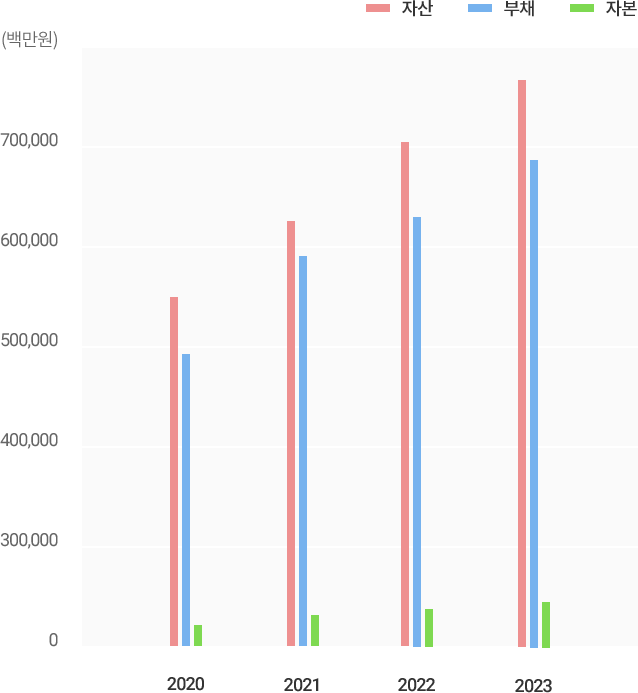
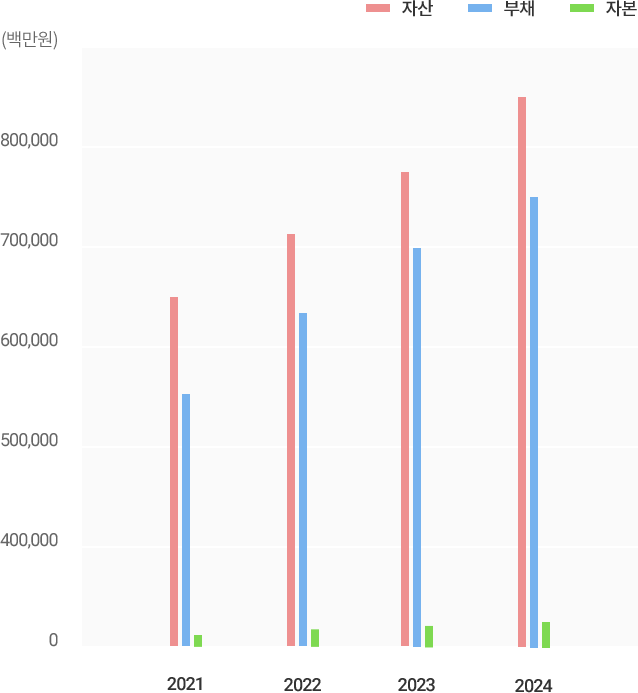
경영현황 수정

diff --git a/mobile/yedaham_renew/event/event250414.html b/mobile/yedaham_renew/event/event250414.html
@@ -1,0 +1,168 @@
+<!DOCTYPE html>
+<html lang="ko">
+
+<head>
+    <title>예다함</title>
+    <meta charset="UTF-8">
+    <meta name="viewport"
+        content="width=device-width, initial-scale=1.0, maximum-scale=1.0, minimum-scale=1.0, user-scalable=no" />
+    <meta property="og:type" content="website">
+    <meta property="og:title" content="The-K 예다함 상조">
+    <meta property="og:description" content="한국교직원공제회가 100% 출자, 설립한 The-K예다함상조">
+    <meta property="og:image" content="https://www.yedaham.com/images/common/logo_withCCM.png">
+    <meta property="og:url" content="https://www.yedaham.com">
+    <link rel="stylesheet" href="../css/mobile.css">
+    <link rel="stylesheet" href="../css/swiper-bundle.css">
+
+</head>
+
+<body class="foot-space">
+    <header class="header">
+        <a href="javascript:history.go(-1);" class="page-back">뒤로 가기</a>
+        <h2>이벤트</h2>
+        <div>
+            <a href="../main/main.html" style="height:48px;display:inline-block;padding-top:13px;"><img
+                    src="../images/common/home.png" style="width:18px;" alt="home"></a>
+            <a href="../main/main.html" style="width:48px;height:48px;display:inline-block;padding-top:15px;"><img
+                    src="../images/common/ham.png" style="width:20px;" alt="The-K 예다함 상조"></a>
+        </div>
+    </header>
+
+    <div class="mainContent event-wrap">
+
+        <div class="event-vis"><img src="../images/event/event_top_250414.jpg" alt=""></div>
+        <div class="move-content">
+            <section class="box event-view-box">
+                <article class="event-view-content">
+                    <h5 class="view-box-title">기간</h5>
+                    <p class="date"><span>2025. 04. 14 ~ 11. 30</span></p>
+                </article>
+                <article class="event-view-content">
+                    <h5 class="view-box-title">대상</h5>
+                    <ul class="mt-15">
+                        <li>예다함 <span class="f700">상조 계약을 유지 중인 회원</span></li>
+                    </ul>
+                </article>
+                <article class="event-view-content">
+                    <h5 class="view-box-title">참여방법</h5>
+                    <ul class="mt-15">
+                        <li>홈페이지(PC, 모바일), 고객센터를 통해 개인정보 변경 시 참여 완료 </li>
+                        <li style="font-size:11px;">※ 변경항목 : 휴대전화, 주소, 이메일 주소, 결제방법 중 1개 이상</li>
+                        <li style="font-size:11px;">※ 이메일, 주소, 연락처 모두 업데이트 시 당첨 확률 UP! UP!</li>
+                        <li style="font-size:11px;">※ 연락처의 경우 <a href="tel:1566-6644">고객센터(1566-6644)</a>로 연락하여 변경 요청</li>
+                        <li style="font-size:11px;">※ 이벤트 기간 동안 개인정보를 다회 변경하여도 이벤트는 1회만 참여가능</li>
+                    </ul>
+                </article>
+                <article class="event-view-content">
+                    <h5 class="view-box-title">경품</h5>
+                    <div class="flex" style=" justify-content: space-between">
+
+                        <ul class="mt-20">
+                            <li>스타벅스 아메리카노(Tall)<br />
+                                기프티콘 1매<br />
+                                (매월 100명 추첨)
+                            </li>
+                        </ul>
+                        <div style="margin-top: -25px;">
+                            <img src="../images/event/event_product_250305_01.jpg" style="width:101px" alt="">
+                        </div>
+                    </div>
+                </article>
+                <article class="event-view-content">
+                    <h5 class="view-box-title">당첨자 발표</h5>
+                    <ul class="mt-15">
+                        <li>당첨자 개별 안내 및 발송 예정</li>
+                        <li style="font-size:11px;">※ 이벤트 참여 후 익월 셋째주에 기프티콘 발송 예정<br />(당사 사정에 따라 발송일정은 변경될 수 있음)</li>
+                    </ul>
+
+                </article>
+
+            </section>
+            <section class="box mt-20">
+                <h5 class="titB">유의사항</h5>
+                <article class="bg-exp mt-10">
+                    기프티콘이 정상 발송된 이후에는 재발송되지 않습니다. 
+                </article>
+
+                <ul class="number-list mt-20">
+                    <li>본 이벤트 경품 변경 시에는 예고없이 변경될 수 있으며, 경품 변경 시에는 동급의 상품을 지급합니다.</li>
+                    <li>본 경품은 이벤트 발송 상품으로 유효기간 연장 및 환불 대상이 아니며, 반드시 유효기간 내에 이용해 주셔야 합니다.</li>
+                    <li>자세한 문의는 <span class="f700">예다함 고객센터</span> <a href="tel:1566-6644"><span
+                                class="f700">1566-6644</span></a>로 문의주시기 바랍니다.</li>
+                </ul>
+
+            </section>
+
+        </div><!-- class="move-content" -->
+
+
+    </div><!-- class="mainContent" -->
+    <footer id="footer">
+        <div class="sns">
+            <a href="https://www.facebook.com/yedaham.co.kr" target="_blank"><img
+                    src="../images/common/icon_facebook.png" alt="페이스북"></a>
+            <a href="https://www.youtube.com/channel/UCIc7RDIHPg6p8y9Ycxundaw/ " target="_blank"><img
+                    src="../images/common/icon_youtube.png" alt="유튜브"></a>
+            <a href="javascript:alert('카카오톡');" target="_blank"><img src="../images/common/icon_kakao_grey.png"
+                    alt="카카오톡"></a>
+        </div>
+        <div class="utList">
+            <a href="https://www.yedaham.co.kr/customer/agreement/agreement.do" target="_blank">이용약관 </a>
+            <a href="https://www.yedaham.co.kr/customer/agreement/pps.do" target="_blank">개인정보처리방침</a><br />
+            <a href="https://www.yedaham.co.kr/customer/agreement_vod/pps_vod.do " target="_blank">영상정보처리기기 운영관리지침</a>
+            <a href="https://www.yedaham.co.kr/customer/agreement/important.do " target="_blank">중요정보고시사항</a>
+        </div>
+
+        <div class="telList ">
+            <div>
+                대표전화<a href="tel:1566-6644">1566-6644</a>
+            </div>
+            <div>
+                장례접수(상황센터)<a href="tel:1566-0119">1566-0119</a>
+            </div>
+        </div>
+        <div class="yedaham-addr ">
+            서울특별시 마포구 마포대로86, 14층(도화동, 창강빌딩)<br />The-K예다함상조㈜ 대표이사 홍승표
+        </div>
+        <ul class="yedaham-number ">
+            <li>사업자등록번호 101-86-49300</li>
+            <li>통신판매업 신고번호 제2014-서울마포-0712호</li>
+            <li>전화권유판매업 신고번호 제2014-서울마포-0012호</li>
+        </ul>
+
+        <div class="brochure">
+            <div><a href="https://www.yedaham.co.kr/main.do" target="_blank">BRAND SITE</a></div>
+            <div><a href="../download/200319_yedaham_brochure.pdf">2020 BROCHURE</a></div>
+        </div>
+
+
+        <div class="selectLink-wrap">
+            <a href="javascript:void(0);" onclick="familySite();">We are The-K group</a>
+            <ul>
+                <li><a href="https://www.ktcu.or.kr/" target="_blank">The-K한국교직원공제회</a></li>
+                <li><a href="http://www.thek-hotel.co.kr/main_sh.asp?" target="_blank">The-K호텔서울</a></li>
+                <li><a href="http://www.ramadajeju.co.kr/" target="_blank">라마다 프라자 제주호텔</a></li>
+                <li><a href="http://thek-hotel.co.kr/gyeongju/main_sh.asp?" target="_blank">The-K호텔경주</a></li>
+                <li><a href="http://thek-hotel.co.kr/jirisan/main_sh.asp?" target="_blank">The-K지리산가족호텔</a></li>
+                <li><a href="http://thek-hotel.co.kr/seoraksan/main_sh.asp?" target="_blank">The-K설악산가족호텔</a></li>
+                <li><a href="https://www.thekbank.co.kr/main/main.do" target="_blank">The-K저축은행</a></li>
+                <li><a href="https://www.sophiagreen.co.kr/index.asp" target="_blank">The-K소피아그린</a></li>
+                <li><a href="https://www.third-age.co.kr/" target="_blank">The-K서드에이지</a></li>
+                <li><a href="http://www.thekmall.co.kr/" target="_blank">The-K교직원나라</a></li>
+            </ul>
+        </div>
+        <div class="copyright ">Copyright© The-K Yedaham Co. Ltd <br />ALL Right Reserved</div>
+        <button id="top-btn" onclick="backToTop()"><img src="../images/common/btn_scroll_top.png" alt=""></button>
+    </footer>
+    <nav id="nav-bot">
+        <a href="https://service.yedaham.co.kr/login" target="_blank">개인정보변경 하러가기</a>
+
+    </nav>
+
+
+    <script src="../js/swiper-bundle.js"></script>
+    <script type="text/javascript" src="../js/script.js"></script>
+  
+</body>
+
+</html>

diff --git a/mobile/yedaham_renew/about/state.html b/mobile/yedaham_renew/about/state.html
@@ -50,23 +50,23 @@
     						<tr>
     							<th class="pl-20 no-line" rowspan="3">자산</th>
     							<th>유동자산</th>
-    							<td><span class="roboto">95,217</span></td>
+    							<td><span class="roboto">161,541</span></td>
     						</tr>
     						<tr>
     							<th>비유동자산</th>
-    							<td><span class="roboto">692,455</span></td>
+    							<td><span class="roboto">691,529</span></td>
     						</tr>
     						<tr>
     							<th>자산총계</th>
-    							<td><span class="robotoB highlight">787,673</span></td>
+    							<td><span class="robotoB highlight">853,070</span></td>
     						</tr>
     						<tr>
     							<th class="pl-20 " colspan="2">자본총계</th>
-    							<td><span class="roboto">88,195</span></td>
+    							<td><span class="roboto">99,011</span></td>
     						</tr>
     						<tr>
     							<th class="pl-20 no-line" rowspan="2">
-    								지급여력비율(%)
+    								지급여력비율(%)<br />(2023년 12월 기준)
     							</th>
     							<th>당사(예다함)</th>
     							<td><span class="robotoB highlight">113%</span></td>
@@ -87,17 +87,17 @@
     						<tr>
     							<th class="pl-20 no-line" rowspan="3">부채</th>
     							<th>유동부채</th>
-    							<td><span class="roboto">11,344</span></td>
+    							<td><span class="roboto">10,123</span></td>
     						</tr>
     						<tr>
 
     							<th>비유동부채</th>
-    							<td><span class="roboto">688,133</span></td>
+    							<td><span class="roboto">743,935</span></td>
     						</tr>
     						<tr>
 
     							<th>부채총계</th>
-    							<td><span class="robotoB ">699,477</span></td>
+    							<td><span class="robotoB ">754,058</span></td>
     						</tr>
     						<tr>
 
@@ -106,7 +106,7 @@
     						</tr>
     						<tr>
 
-    							<th class="pl-20 no-line" rowspan="2">부채비율(%)</th>
+    							<th class="pl-20 no-line" rowspan="2">부채비율(%)<br />(2023년 12월 기준)</th>
     							<th>당사(예다함)</th>
     							<td><span class="robotoB highlight">89%</span></td>
     						</tr>
@@ -118,7 +118,7 @@
     				</table>
                 </section>
 
-                <p class="f350 text-right mt-15 color-666 pr-10">(2023년 12월말 기준, 단위 백만원)</p>
+                <p class="f350 text-right mt-15 color-666 pr-10">(2024년 12월말 기준, 단위 백만원)</p>
 
                 <section class="box mt-30">
                     <ul class="number-list">
@@ -153,7 +153,7 @@
     					<tbody>
     						<tr>
     							<th class="pl-20 ">총선수금(원)<br>(고객 부금예수금)</th>
-    							<td><span class="roboto">688,223</span></td>
+    							<td><span class="roboto">740,277</span></td>
     						</tr>
     						<tr>
                                 <th class="pl-20 "> 보전비율(%)</th>
@@ -186,7 +186,7 @@
     					</tbody>
     				</table>
                 </section>
-                <p class="f350 text-right mt-15 color-666 pr-10">(2023년 12월말 기준, 단위 백만원)</p>
+                <p class="f350 text-right mt-15 color-666 pr-10">(2024년 12월말 기준, 단위 백만원)</p>
                 <section class="box mt-30">
                     <ul class="number-list">
                         <li>선불식 할부거래업자의 폐업 등록 취소 등의 사유로
@@ -224,6 +224,12 @@
                             </tr>
                         </thead>
                         <tbody>
+                            <tr>
+                                <td>2024년</td>
+                                <td>853,070</td>
+                                <td>754,058</td>
+                                <td>99,011</td>
+                            </tr>
                             <tr>
                                 <td>2023년</td>
                                 <td>787,673</td>
@@ -275,7 +281,7 @@
                           
                         </tbody>
                     </table>
-                    <p class="f350 text-right mt-15 color-666 pr-10">(2023년 12월말 기준, 단위 백만원)</p>
+                    <p class="f350 text-right mt-15 color-666 pr-10">(2024년 12월말 기준, 단위 백만원)</p>
                 </section>
 
             </div><!-- id="state021" -->
@@ -297,7 +303,13 @@
                             </tr>
                         </thead>
                         <tbody>
-                            
+                            <tr>
+                                <td>2024년</td>
+                                <td>59,185</td>
+                                <td>75,631</td>
+                                <td><p class="right">33,849<br><span>(7,851)</span></p></td>
+                                <td>7,576</td>
+                            </tr>
                             <tr>
                                 <td>2023년</td>
                                 <td>60,710</td>
@@ -356,7 +368,7 @@
                             </tr>
                         </tbody>
                     </table>
-                    <p class="f350 text-right mt-15 color-666 pr-10">(2023년 12월말 기준, 단위 백만원)</p>
+                    <p class="f350 text-right mt-15 color-666 pr-10">(2024년 12월말 기준, 단위 백만원)</p>
                 </section>
 
             </div><!-- id="state022" -->
@@ -375,6 +387,10 @@
                             </tr>
                         </thead>
                         <tbody>
+                            <tr>
+                                <td>2024년</td>
+                                <td>740,277</td>
+                            </tr>
                             <tr>
                                 <td>2023년</td>
                                 <td>688,223</td>
@@ -413,7 +429,7 @@
                             </tr>
 						</tbody>
                     </table>
-                    <p class="f350 text-right mt-15 color-666 pr-10">(2023년 12월말 기준, 단위 백만원)</p>
+                    <p class="f350 text-right mt-15 color-666 pr-10">(2024년 12월말 기준, 단위 백만원)</p>
                 </section>
 
                 <section class="box mt-15">
@@ -441,7 +457,7 @@
                             <tr>
                                 <td>2024년</td>
                                 <td>삼덕회계법인</td>
-                                <td><a href="https://m.yedaham.co.kr/download/report2023.pdf" target="_blank"><img src="../images/about/icon_download.png" alt="다운로드"></a></td>
+                                <td><a href="https://m.yedaham.co.kr/download/report2024.pdf" target="_blank"><img src="../images/about/icon_download.png" alt="다운로드"></a></td>
                             </tr>
 							<tr>
                                 <td>2023년</td>
